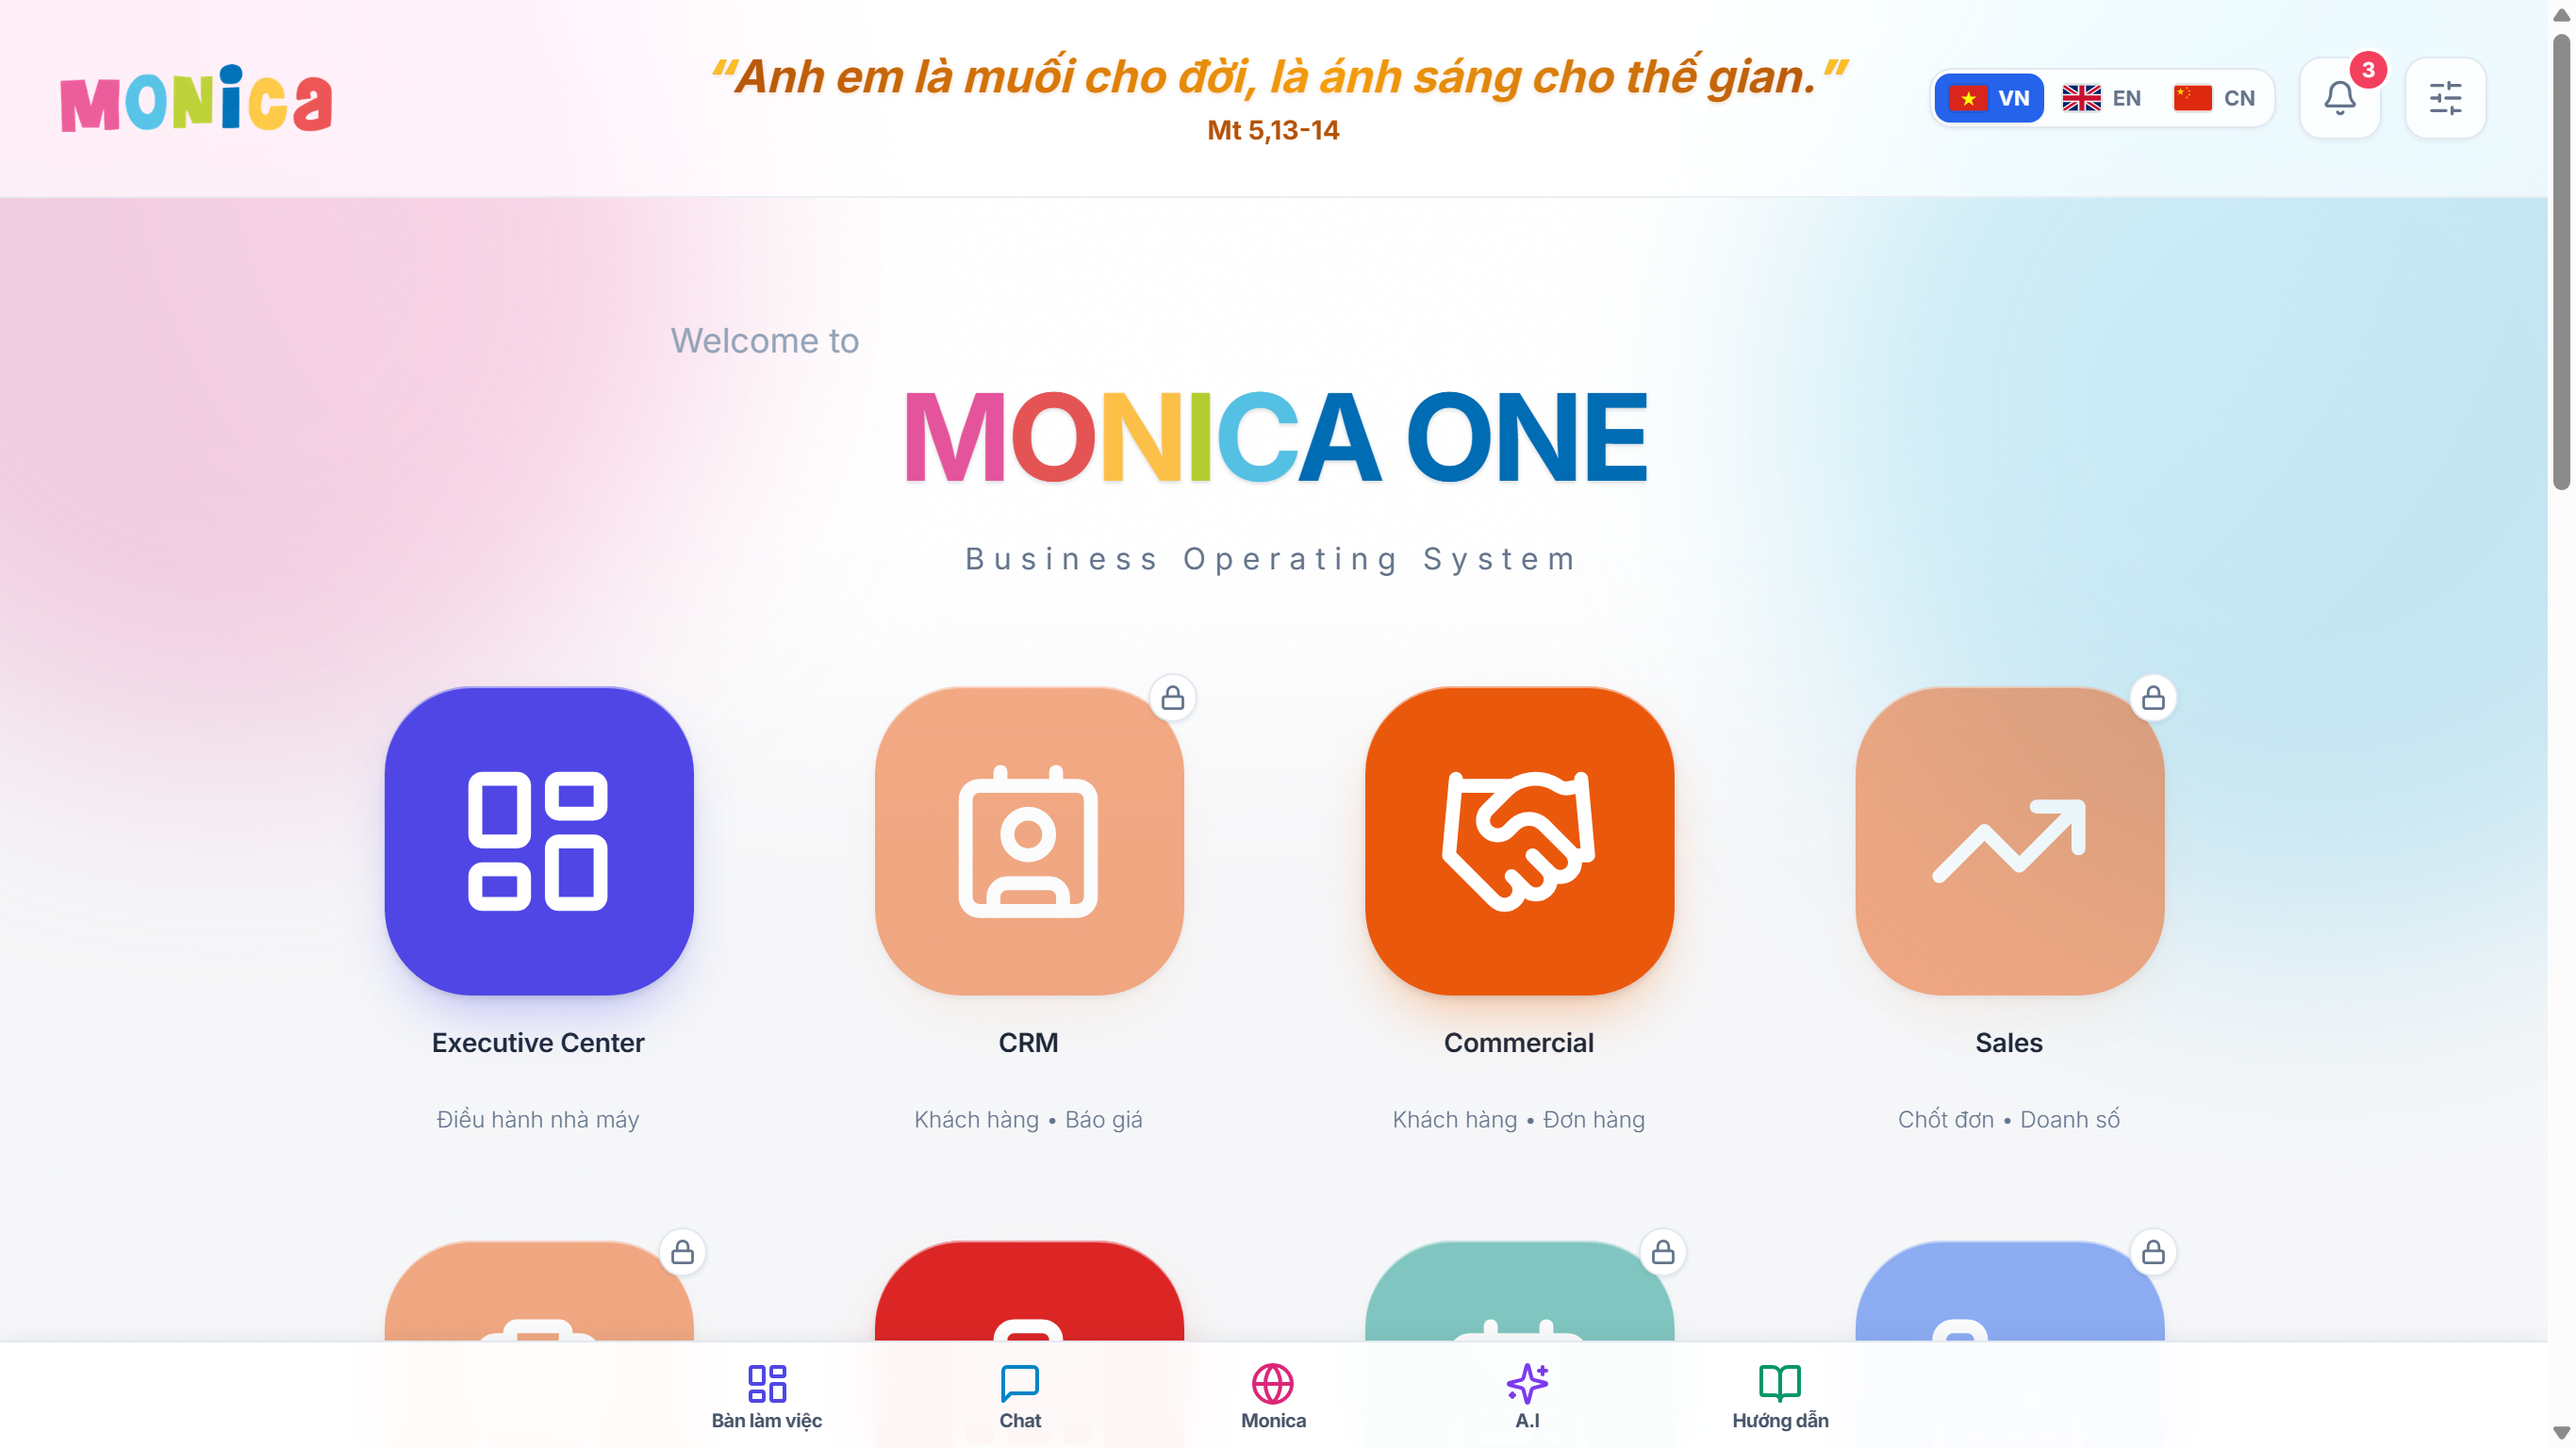
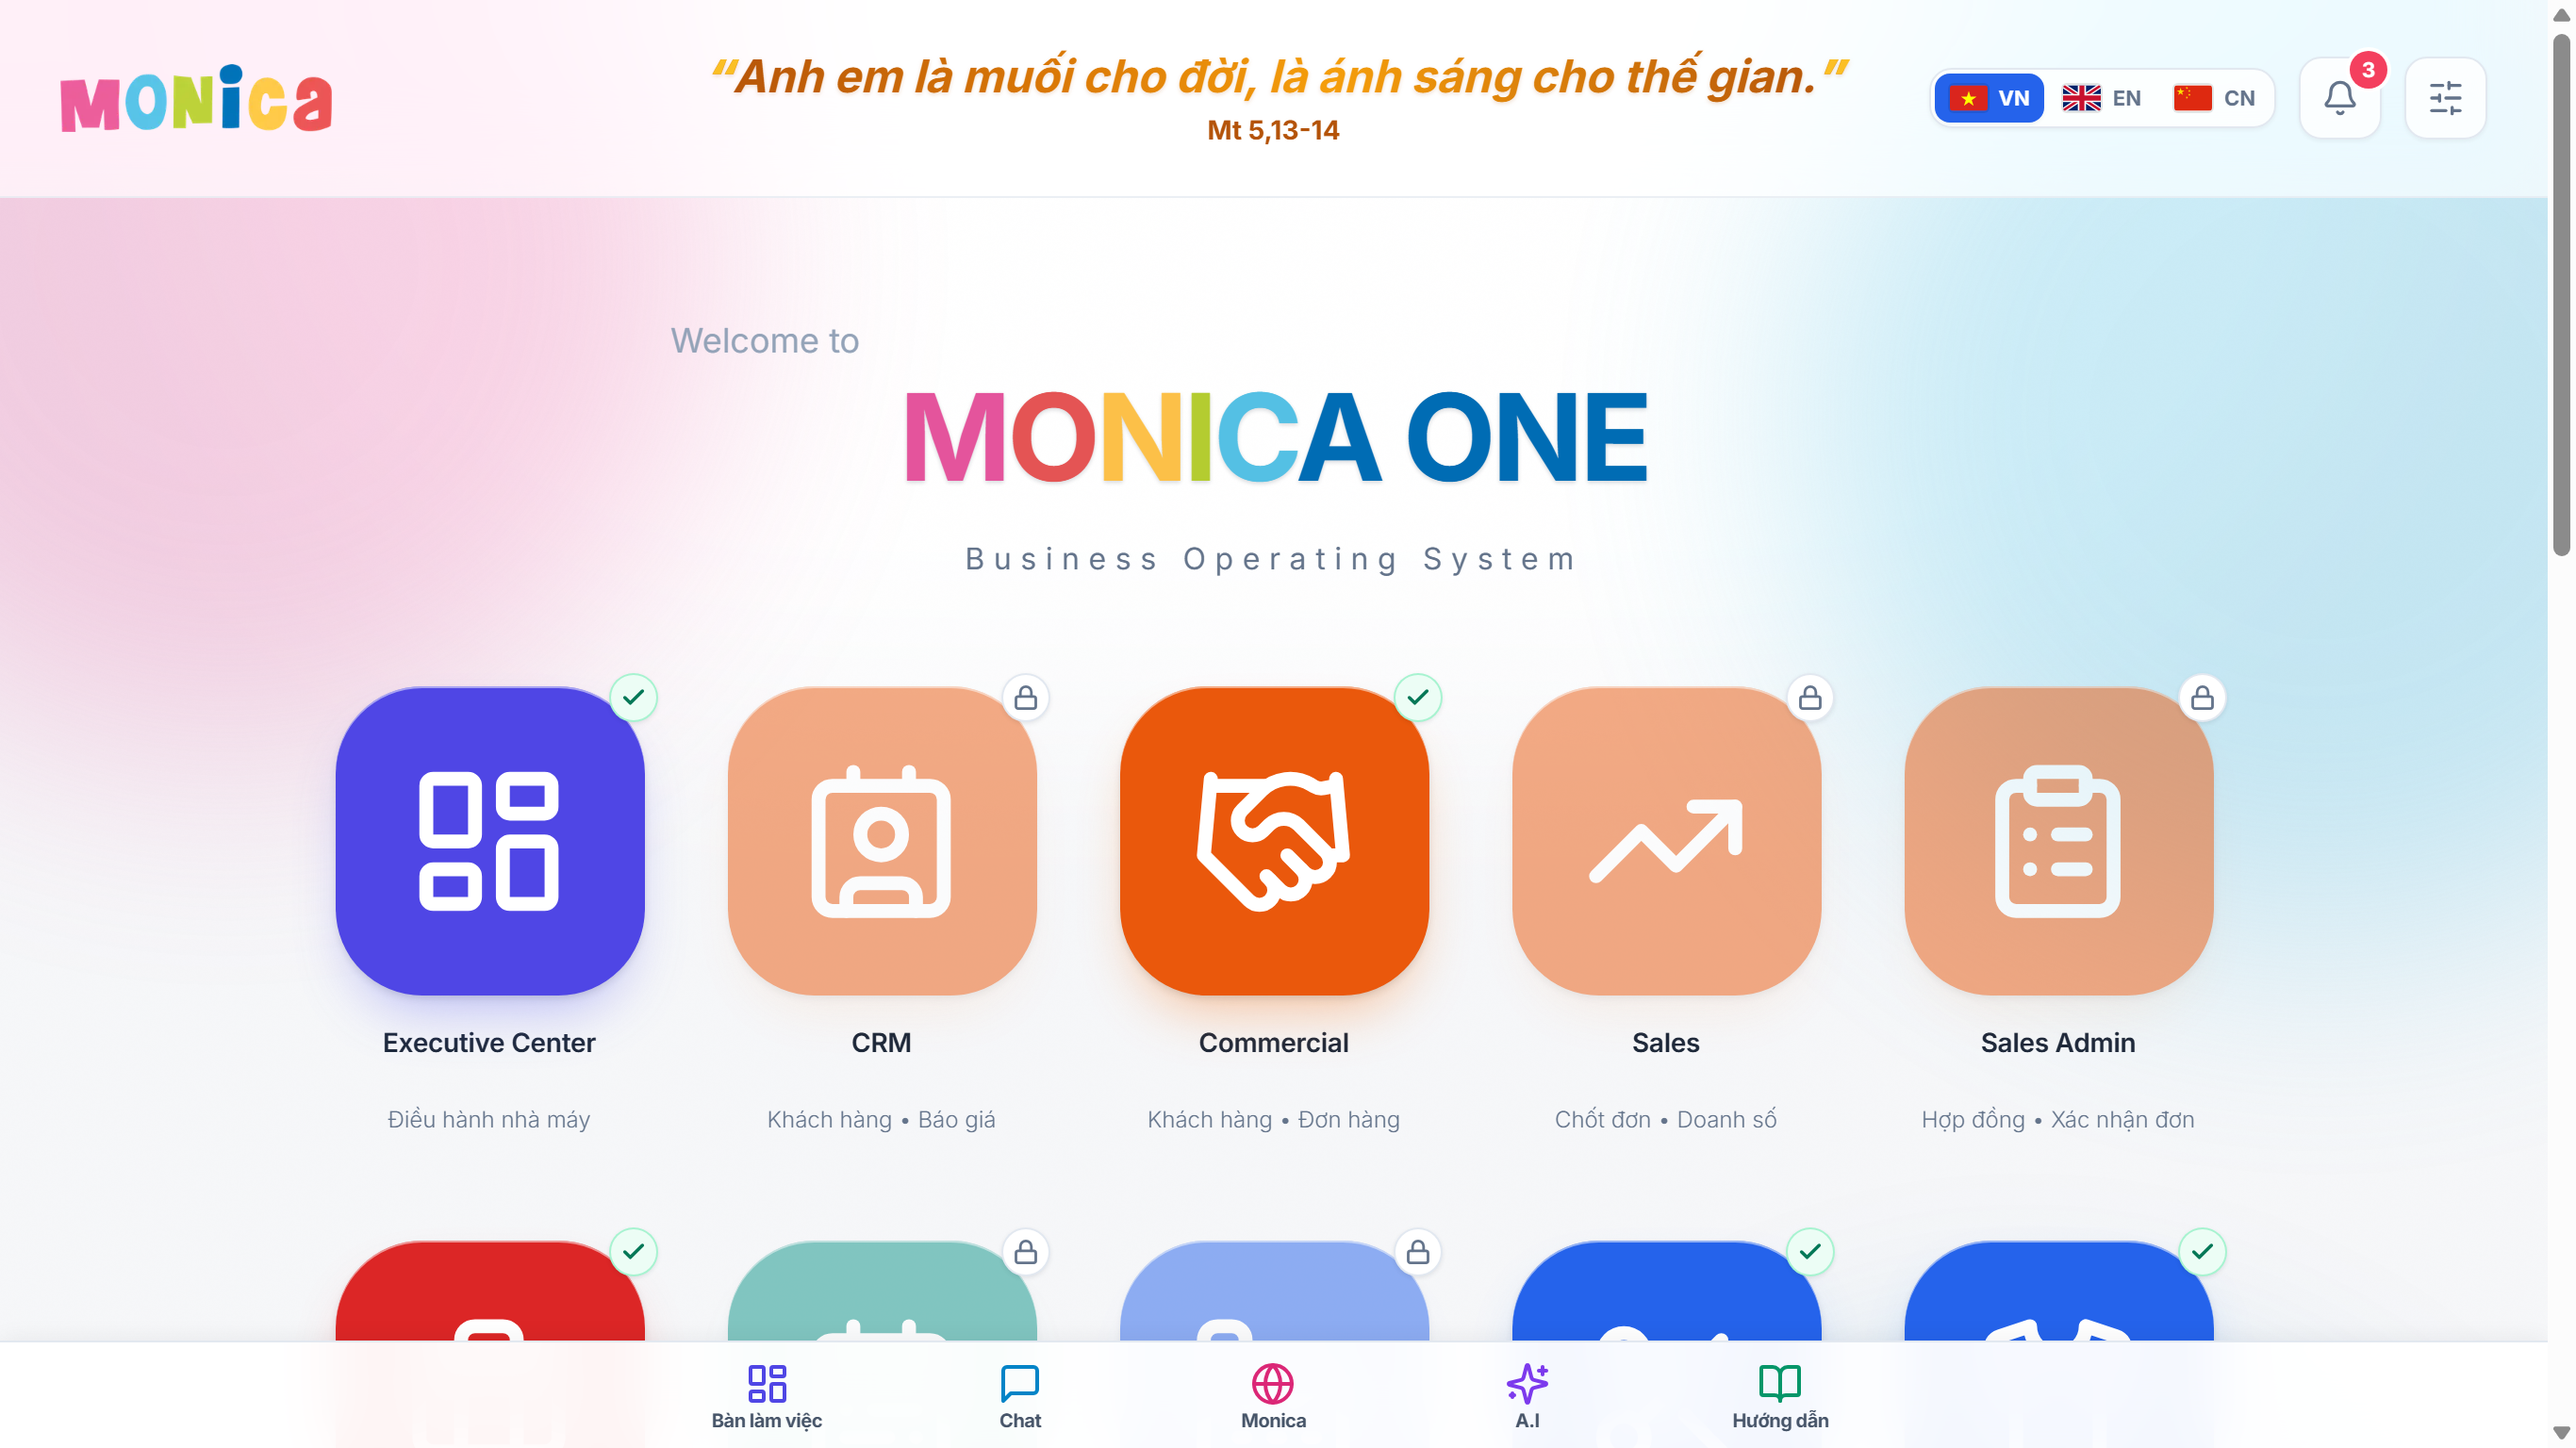
feat(trang chủ): Launcher 5 cột trên máy bàn · dấu ✓ cho App đã mở
Chỉ thị Board 06/08/2026 — Priority 1.

- Máy bàn: lưới Business App 4 → **5 cột** (`md:grid-cols-5`).
- Điện thoại: giữ **3 cột**. `home-skeleton.tsx` đổi cùng mốc.
- Huy hiệu trạng thái trên mỗi ô:
    ✓ xanh lá  — App đã hoàn thiện, mở được
    🔒 ổ khoá  — App chưa kích hoạt, hoặc chưa được cấp quyền
  Toàn bộ 24 Business App vẫn hiển thị, đúng vị trí cũ.
- Thêm khoá `home.ready` vào cả ba tệp dịch (vi · en · zh).

⚠ Dấu ✓ dùng `STATUS.healthy.chip` của `lib/design/tokens.ts`, KHÔNG viết
màu thẳng — bản nháp đầu viết `text-emerald-600` và bài kiểm ⑨ chặn ngay
(bánh cóc nợ màu `TD-07`).

KIỂM CHỨNG
- typecheck sạch · lint 0 cảnh báo · kiến trúc 84 đạt / 0 hỏng · build thành công.
- Ảnh chụp thật qua CDP có giả lập thiết bị: 1366×768 và 390×844.

diff --git a/app/_home/app-card.tsx b/app/_home/app-card.tsx
@@ -1,7 +1,7 @@
 'use client';
 
 import Link from 'next/link';
-import { Lock } from 'lucide-react';
+import { Lock, Check } from 'lucide-react';
 import type { CSSProperties } from 'react';
 
 import type { ModuleItem } from '../home-modules';
@@ -282,6 +282,18 @@ export default function AppCard({
 
             Hai trạng thái ⛔ không bao giờ chồng nhau *(cùng một góc, và
             `COMING_SOON` xét TRƯỚC phiên đăng nhập)*. */}
+        {/* ✓ App đã hoàn thiện — Board Directive 06/08/2026. Cùng khuôn huy
+            hiệu với ổ khoá, đổi màu và đổi hình: xanh lá = mở được. */}
+        {moDuoc && !khongQuyen && (
+          <span
+            className={`absolute -right-0.5 -top-0.5 flex h-4 w-4 items-center justify-center rounded-full shadow-[0_1px_3px_rgba(16,24,40,0.16)] ring-1 sm:-right-1.5 sm:-top-1.5 sm:h-6 sm:w-6 ${STATUS.healthy.chip}`}
+            title={t('home.ready')}
+          >
+            <Check className="h-2.5 w-2.5 sm:h-3.5 sm:w-3.5" strokeWidth={3} aria-hidden="true" />
+            <span className="sr-only">{t('home.ready')}</span>
+          </span>
+        )}
+
         {!moDuoc && (
           <span
             className="absolute -right-0.5 -top-0.5 flex h-4 w-4 items-center justify-center rounded-full bg-white text-slate-500 shadow-[0_1px_3px_rgba(16,24,40,0.16)] ring-1 ring-slate-200 sm:-right-1.5 sm:-top-1.5 sm:h-6 sm:w-6"

diff --git a/app/_home/home-content.tsx b/app/_home/home-content.tsx
@@ -325,7 +325,7 @@ export default function HomeContent({
             ⚠ `home-skeleton.tsx` phải đổi **CÙNG MỘT MỐC**, nếu không khung
             chờ 4 cột sẽ nhảy sang 3 cột lúc dữ liệu về — đúng thứ khung chờ
             sinh ra để tránh. */}
-        <div className="mx-auto grid max-w-5xl grid-cols-3 gap-x-2 gap-y-8 sm:gap-x-4 sm:gap-y-10 md:grid-cols-4">
+        <div className="mx-auto grid max-w-5xl grid-cols-3 gap-x-2 gap-y-8 sm:gap-x-4 sm:gap-y-10 md:grid-cols-5">
           {MODULES.map((mod) => (
             <AppCard
               key={mod.id}

diff --git a/app/_home/home-skeleton.tsx b/app/_home/home-skeleton.tsx
@@ -49,7 +49,7 @@ export default function HomeSkeleton() {
           chờ **tự dài ra**, ⛔ không ai phải nhớ sửa. */}
       {/* ⚠ Chuỗi lớp này phải **giống hệt** lưới thật ở `home-content.tsx`.
           Đọc cả hai cạnh nhau trước khi sửa một bên. */}
-      <div className="grid grid-cols-3 gap-x-2 gap-y-8 sm:gap-x-4 sm:gap-y-10 md:grid-cols-4">
+      <div className="grid grid-cols-3 gap-x-2 gap-y-8 sm:gap-x-4 sm:gap-y-10 md:grid-cols-5">
         {Array.from({ length: SO_BUSINESS_APP }, (_, i) => <OCho key={i} />)}
       </div>
     </div>
